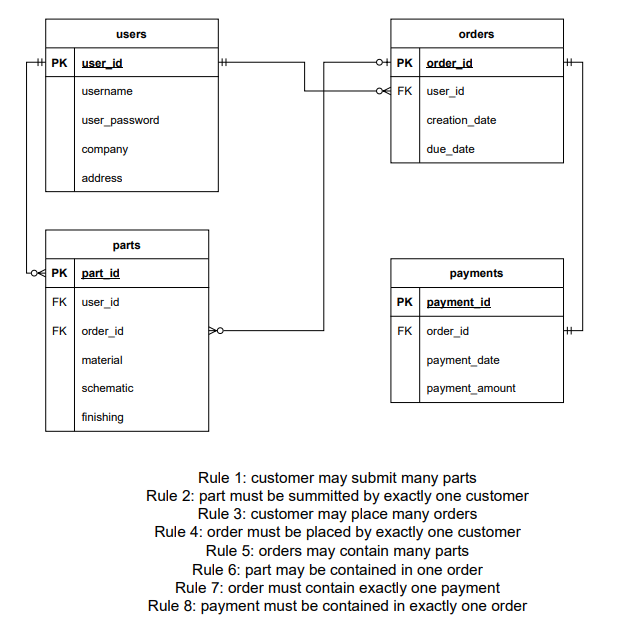
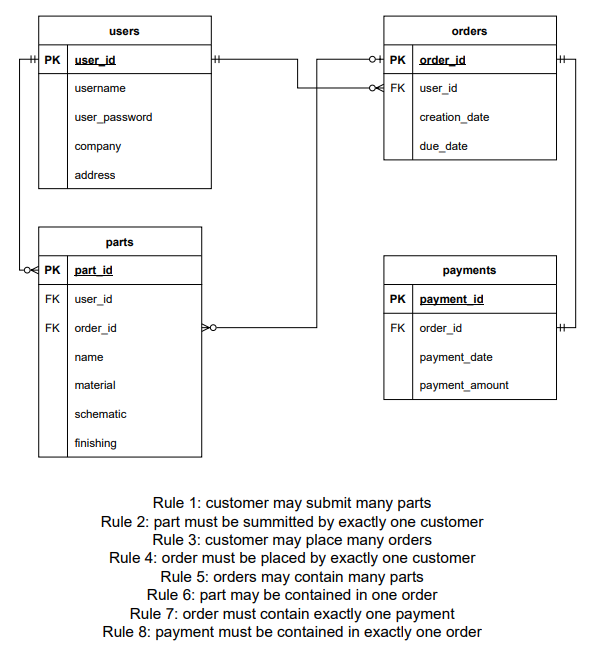
fix E-R and added payment table

Changed region(s): [[0.0297, 0.0, 0.9505, 0.6871], [0.1485, 0.717, 0.8614, 0.9858]]

diff --git a/index.js b/index.js
@@ -6,6 +6,7 @@ const path = require('path');
 const userRoutes = require('./server/routes/user');
 const partRoutes = require('./server/routes/part');
 const orderRoutes = require('./server/routes/order');
+const paymentRoutes = require('./server/routes/payment');
 
 app.use(express.json()); //To parse JSON bodies (Applicable for Express 4.16+)
 
@@ -23,6 +24,7 @@ app.use(function(req, res, next) {
 app.use("/users", userRoutes);
 app.use("/parts", partRoutes);
 app.use("/orders", orderRoutes);
+app.use("/payments", paymentRoutes);
 
 const PORT = process.env.PORT || 3000;
 app.listen(PORT, () => console.log(`Server started on port ${PORT}!`));

diff --git a/server/models/payment.js b/server/models/payment.js
@@ -1,0 +1,19 @@
+const con = require("./db_connect");
+
+async function createTable() {
+  let sql = `CREATE TABLE IF NOT EXISTS payments (
+    payment_id INT NOT NULL AUTO_INCREMENT,
+    payment_date DATE,
+    payment_amount INT,
+    order_id INT,
+    CONSTRAINT payment_pk PRIMARY KEY(payment_id),
+    CONSTRAINT orderP_fk FOREIGN KEY(order_id) REFERENCES orders(order_id)
+  )`;
+  await con.query(sql);
+}
+createTable();
+
+
+
+
+module.exports = { createTable };

diff --git a/server/routes/payment.js b/server/routes/payment.js
@@ -1,5 +1,5 @@
 const express = require('express');
-const Part = require('../models/order');
+const Part = require('../models/payment');
 const router = express.Router();
 
 
